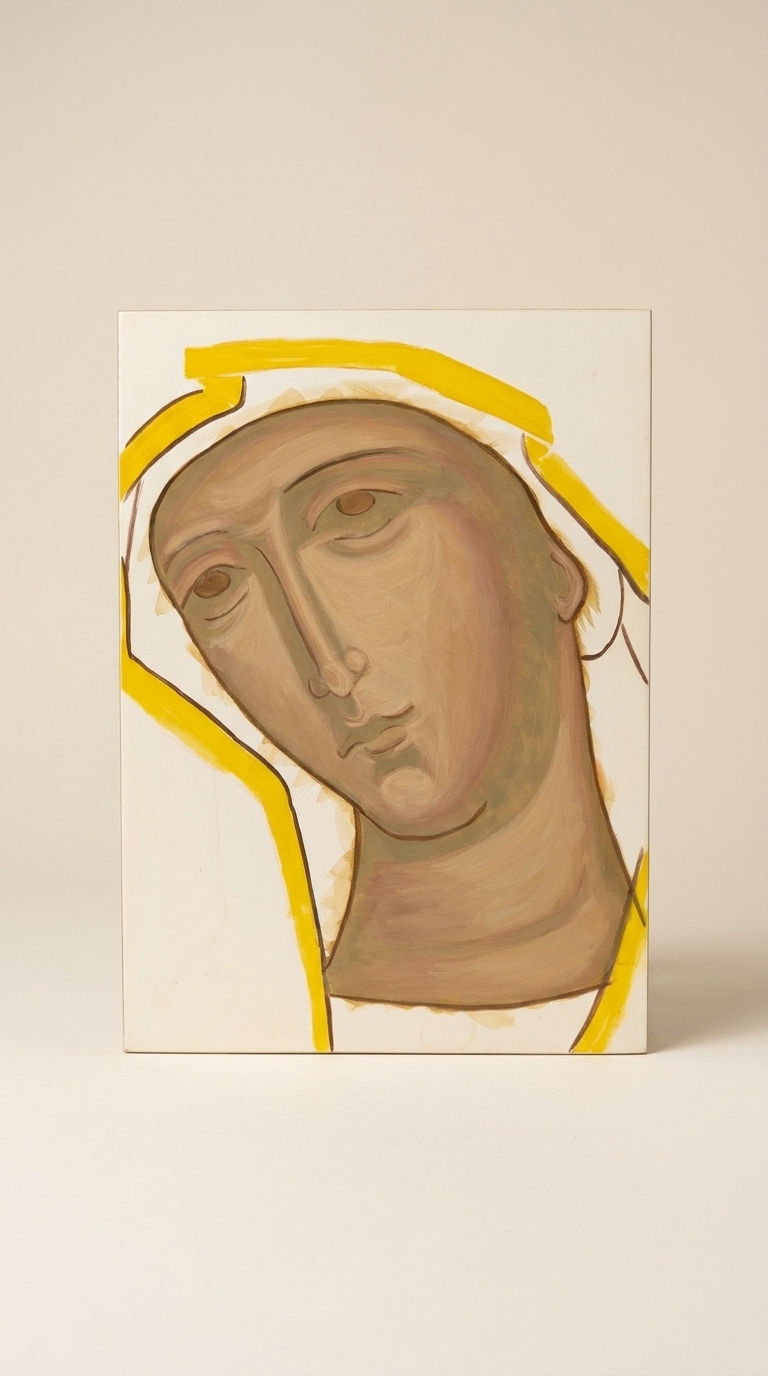
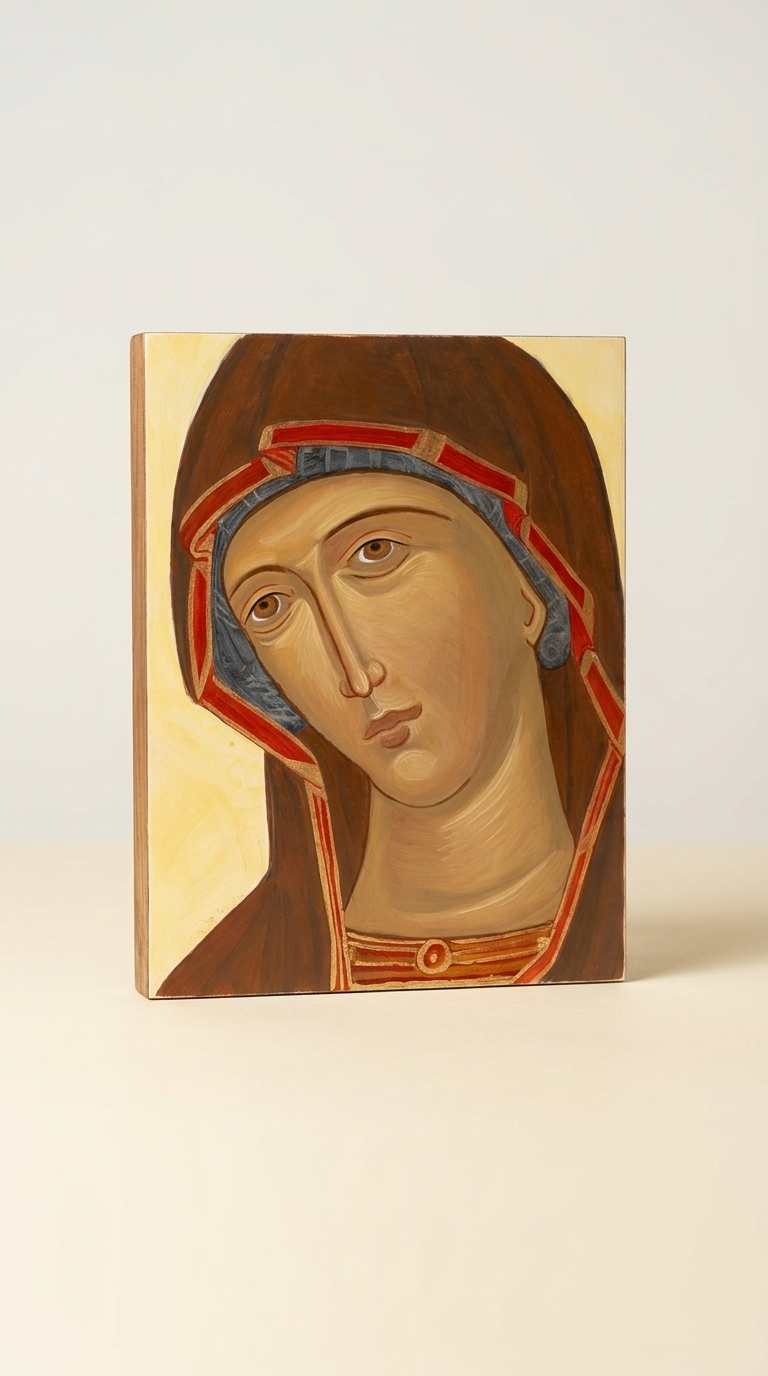
Update Theotokos Mother of God 5x7 gallery artwork with latest studio image

diff --git a/index.html b/index.html
@@ -431,7 +431,7 @@
           <!-- 9. Theotokos - Mother Of God (Miniature 5x7) -->
           <article class="artwork-card" data-category="theotokos">
             <div class="artwork-media view-artwork-trigger" tabindex="0" role="button" aria-label="View Theotokos Miniature">
-              <img src="assets/images/theotokos_mini_studio_2025.jpg" alt="Theotokos Mother Of God Miniature Icon" class="artwork-img" loading="lazy">
+              <img src="assets/images/theotokos_veil_studio_2025.jpg" alt="Theotokos Mother Of God Miniature Icon" class="artwork-img" loading="lazy">
               <div class="artwork-overlay"><span class="view-btn">View Artwork</span></div>
             </div>
             <div class="artwork-info">
@@ -562,24 +562,7 @@
           </article>
 
 
-          <!-- Study 4: Theotokos Maphorion & Gold Assist Study -->
-          <article class="process-card">
-            <div class="process-media view-artwork-trigger" tabindex="0" role="button" aria-label="View Theotokos Maphorion and Gold Assist Study">
-              <img src="assets/images/theotokos_veil_studio_2025.jpg" alt="Theotokos Mother of God study with maphorion veil and gold assist on gessoed board" class="artwork-img" loading="lazy">
-              <div class="artwork-overlay"><span class="view-btn">Inspect Study</span></div>
-              <span class="process-stage-pill">Veil &amp; Gold Assist</span>
-            </div>
-            <div class="process-info">
-              <h3 class="artwork-title">Theotokos &mdash; Maphorion &amp; Gold Assist</h3>
-              <p class="artwork-technique">Egg Tempera &amp; Shell Gold on Gessoed Wood &bull; Garment &amp; Veil Study<br>California, 2025</p>
-              <p class="process-desc">
-                Completing the sacred vestments of the Mother of God: deep chestnut-brown maphorion with intricate cinnabar-red and gold assist border trim, slate-blue coif folds, and illuminated Byzantine countenance.
-              </p>
-              <span class="artwork-meta-tag">Maphorion &bull; Gold Assist</span>
-            </div>
-          </article>
-
-          <!-- Study 5: Levkas Ground Board Preparation -->
+          <!-- Study 4: Levkas Ground Board Preparation -->
           <article class="process-card">
             <div class="process-media view-artwork-trigger" tabindex="0" role="button" aria-label="View Levkas Ground Board Preparation">
               <img src="assets/images/gessoed_boards_studio.jpg" alt="Traditional levkas icon boards prepared with rabbit-skin glue and Carrara marble dust" class="artwork-img" loading="lazy">
